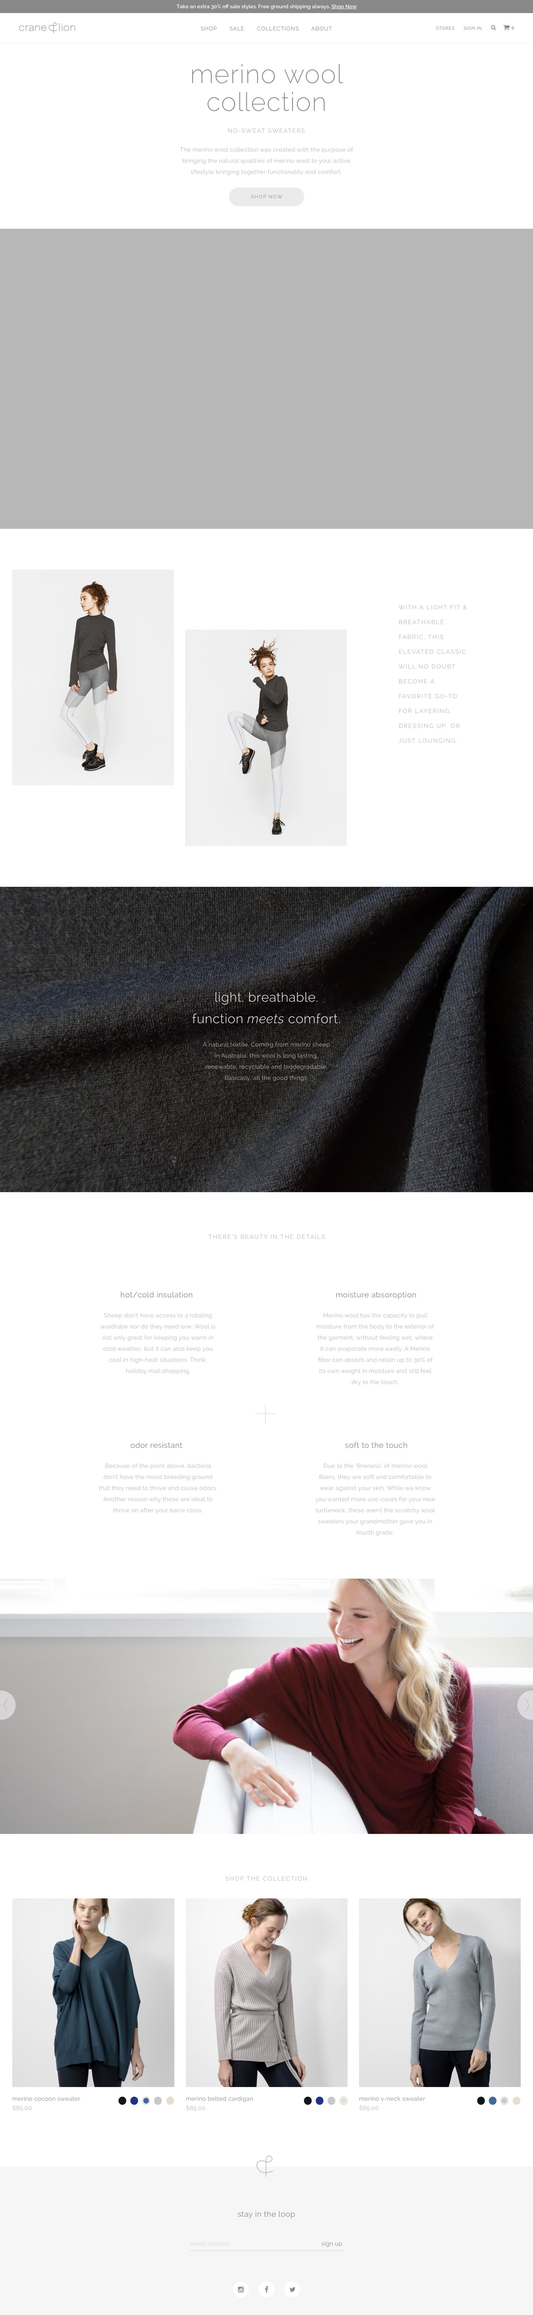
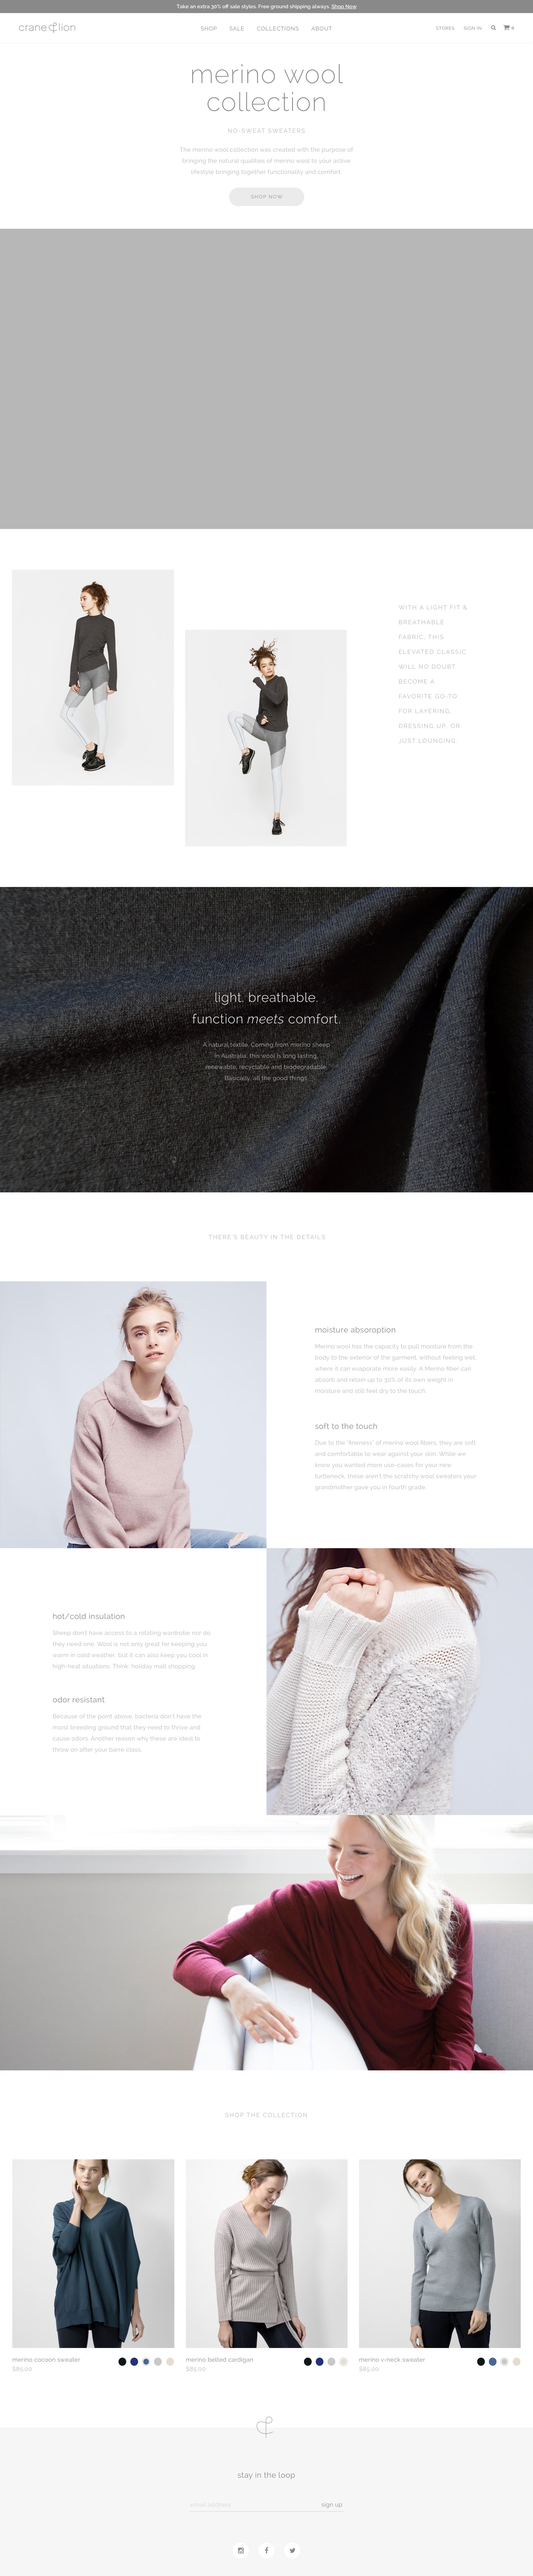
update initial and lp alt

diff --git a/cl/merino-lp/index.hyperesources/index_hype_generated_script.js b/cl/merino-lp/index.hyperesources/index_hype_generated_script.js
@@ -3,5 +3,5 @@
 (function(){(function k(){function l(a,b,d){var c=!1;null==window[a]&&(null==window[b]?(window[b]=[],window[b].push(k),a=document.getElementsByTagName("head")[0],b=document.createElement("script"),c=h,false==!0&&(c=""),b.type="text/javascript",b.src=c+"/"+d,a.appendChild(b)):window[b].push(k),c=!0);return c}var h="index.hyperesources",c="index",e="index_hype_container";if(false==!1)try{for(var f=document.getElementsByTagName("script"),
 a=0;a<f.length;a++){var b=f[a].src;if(null!=b&&-1!=b.indexOf("index_hype_generated_script.js")){h=b.substr(0,b.lastIndexOf("/"));break}}}catch(n){}if(false==!1&&(a=navigator.userAgent.match(/MSIE (\d+\.\d+)/),a=parseFloat(a&&a[1])||null,a=l("HYPE_552","HYPE_dtl_552",!0==(null!=a&&10>a||false==!0)?"HYPE-552.full.min.js":"HYPE-552.thin.min.js"),false==!0&&(a=a||l("HYPE_w_552","HYPE_wdtl_552","HYPE-552.waypoints.min.js")),a))return;
 f=window.HYPE.documents;if(null!=f[c]){b=1;a=c;do c=""+a+"-"+b++;while(null!=f[c]);for(var d=document.getElementsByTagName("div"),b=!1,a=0;a<d.length;a++)if(d[a].id==e&&null==d[a].getAttribute("HYP_dn")){var b=1,g=e;do e=""+g+"-"+b++;while(null!=document.getElementById(e));d[a].id=e;b=!0;break}if(!1==b)return}b=[];b=[{name:"untitledFunction",source:"function(hypeDocument, element, event) {\t\n\tmenu = hypeDocument.getElementById('menu');\n\n\n\twindow.onscroll = function(){\n\t\tvar scroll = window.pageYOffset || (document.body.scrollTop || document.documentElement.scrollTop);\n\t\t\n\t\tvar menuDelta = 100;\n\n\n\t\tif (scroll > menuDelta){\n\t\t\tmenu.classList.add('sticky')\n\t\t}\n\t\tif (scroll <= menuDelta){\n\t\t\tmenu.classList.remove('sticky')\n\t\t}\n\t\t\n\t};\t\n\n}",identifier:"12"}];d={};g={};for(a=0;a<b.length;a++)try{g[b[a].identifier]=b[a].name,d[b[a].name]=eval("(function(){return "+b[a].source+"})();")}catch(m){window.console&&window.console.log(m),
-d[b[a].name]=function(){}}a=new HYPE_552(c,e,{"3":{p:1,n:"Product%20Landing%20Page%20_v1.1%40.jpg",g:"5",o:true,t:"@1x"},"4":{p:1,n:"Product%20Landing%20Page%20_v1.1%40_2x.jpg",g:"5",o:true,t:"@2x"},"0":{p:1,n:"fixed-nav.png",g:"10",o:true,t:"@1x"},"5":{p:1,n:"Pasted.jpg",g:"28",o:true,t:"@1x"},"1":{p:1,n:"fixed-nav_2x.png",g:"10",o:true,t:"@2x"},"6":{p:1,n:"Pasted_2x.jpg",g:"28",o:true,t:"@2x"},"2":{n:"yoga-lulu.mp4",g:"7",t:"video/mp4"}},h,[],d,[{n:"Untitled Scene",o:"1",X:[0]}],[{o:"3",p:"600px",x:0,cA:false,Z:6247,Y:1440,c:"#FFFFFF",L:[],bY:1,d:1440,U:{},T:{"30":{i:"30",n:"detail hover",z:0.11,b:[],a:[{f:"c",y:0,z:0.11,i:"e",e:1,s:0,o:"31"},{y:0.11,i:"e",s:1,z:0,o:"31",f:"c"}],f:30},kTimelineDefaultIdentifier:{i:"kTimelineDefaultIdentifier",n:"Main Timeline",z:40.13,b:[],a:[{y:0,p:1,i:"Video Track",z:40.13,o:"32",f:"a"},{f:"c",p:2,y:0,z:0,i:"ActionHandler",s:{a:[{p:4,h:"12"}]},o:"kTimelineDefaultIdentifier"}],f:30}},bZ:180,O:["34","31","32","33"],v:{"34":{h:"10",p:"no-repeat",x:"visible",i:"menu",q:"100% 100%",a:-6,j:"absolute",b:-154,c:1440,k:"div",z:4,d:120,r:"inline"},"33":{h:"5",p:"no-repeat",x:"visible",a:0,q:"100% 100%",b:-2,j:"absolute",r:"inline",c:1440,k:"div",z:1,d:6247},"32":{aR:"1",x:"visible",i:"yogavideo",bE:"7",a:-15,j:"absolute",b:603,z:2,k:"video",cP:"video",d:834,aO:"0",c:1470,aQ:"1",aH:"1"},"31":{aD:{a:[{b:"30",p:3,z:false,symbolOid:"2"}]},h:"28",x:"visible",a:-186,q:"100% 100%",b:1245,j:"absolute",p:"no-repeat",z:3,k:"div",c:874,d:1163,r:"inline",cQ:0.5,e:0,cR:0.5,aC:{a:[{b:"30",p:3,z:true,symbolOid:"2"}]}}}}],{},g,{},null,false,true,-1,true,true,false,true);f[c]=a.API;document.getElementById(e).setAttribute("HYP_dn",
+d[b[a].name]=function(){}}a=new HYPE_552(c,e,{"3":{p:1,n:"Pasted.jpg",g:"28",o:true,t:"@1x"},"4":{p:1,n:"Pasted_2x.jpg",g:"28",o:true,t:"@2x"},"0":{p:1,n:"fixed-nav.png",g:"10",o:true,t:"@1x"},"5":{p:1,n:"Product%20Landing%20Page%20_v1.1%40.jpg",g:"31",o:true,t:"@1x"},"1":{p:1,n:"fixed-nav_2x.png",g:"10",o:true,t:"@2x"},"6":{p:1,n:"Product%20Landing%20Page%20_v1.1%40_2x.jpg",g:"31",o:true,t:"@2x"},"2":{n:"yoga-lulu.mp4",g:"7",t:"video/mp4"}},h,[],d,[{n:"Untitled Scene",o:"1",X:[0]}],[{o:"3",p:"600px",x:0,cA:false,Z:6950,Y:1440,c:"#FFFFFF",L:[],bY:1,d:1440,U:{},T:{"30":{i:"30",n:"detail hover",z:0.11,b:[],a:[{f:"c",y:0,z:0.11,i:"e",e:1,s:0,o:"33"},{y:0.11,i:"e",s:1,z:0,o:"33",f:"c"}],f:30},kTimelineDefaultIdentifier:{i:"kTimelineDefaultIdentifier",n:"Main Timeline",z:40.13,b:[],a:[{y:0,p:1,i:"Video Track",z:40.13,o:"34",f:"a"},{f:"c",p:2,y:0,z:0,i:"ActionHandler",s:{a:[{p:4,h:"12"}]},o:"kTimelineDefaultIdentifier"}],f:30}},bZ:180,O:["35","33","34","36"],v:{"34":{aR:"1",x:"visible",i:"yogavideo",bE:"7",a:-15,j:"absolute",b:597,z:3,k:"video",cP:"video",d:834,aO:"0",c:1470,aQ:"1",aH:"1"},"33":{aD:{a:[{b:"30",p:3,z:false,symbolOid:"2"}]},h:"28",x:"visible",a:-186,q:"100% 100%",b:1245,j:"absolute",p:"no-repeat",z:4,k:"div",c:874,d:1163,r:"inline",cQ:0.5,e:0,cR:0.5,aC:{a:[{b:"30",p:3,z:true,symbolOid:"2"}]}},"36":{h:"31",p:"no-repeat",x:"visible",a:0,q:"100% 100%",b:0,j:"absolute",r:"inline",c:1440,k:"div",z:2,d:6950},"35":{h:"10",p:"no-repeat",x:"visible",i:"menu",q:"100% 100%",a:-6,j:"absolute",b:-154,c:1440,k:"div",z:5,d:120,r:"inline"}}}],{},g,{},null,false,true,-1,true,true,false,true);f[c]=a.API;document.getElementById(e).setAttribute("HYP_dn",
 c);a.z_o(this.body)})();})();

diff --git a/cl/merino-lp/index.html b/cl/merino-lp/index.html
@@ -47,8 +47,8 @@
   <body>
 	<!-- copy these lines to your document: -->
 
-	<div id="index_hype_container" style="margin:auto;position:relative;width:1440px;height:6247px;overflow:hidden;" aria-live="polite">
-		<script type="text/javascript" charset="utf-8" src="index.hyperesources/index_hype_generated_script.js?50589"></script>
+	<div id="index_hype_container" style="margin:auto;position:relative;width:1440px;height:6950px;overflow:hidden;" aria-live="polite">
+		<script type="text/javascript" charset="utf-8" src="index.hyperesources/index_hype_generated_script.js?77220"></script>
 	</div>
 
 	<!-- end copy -->
